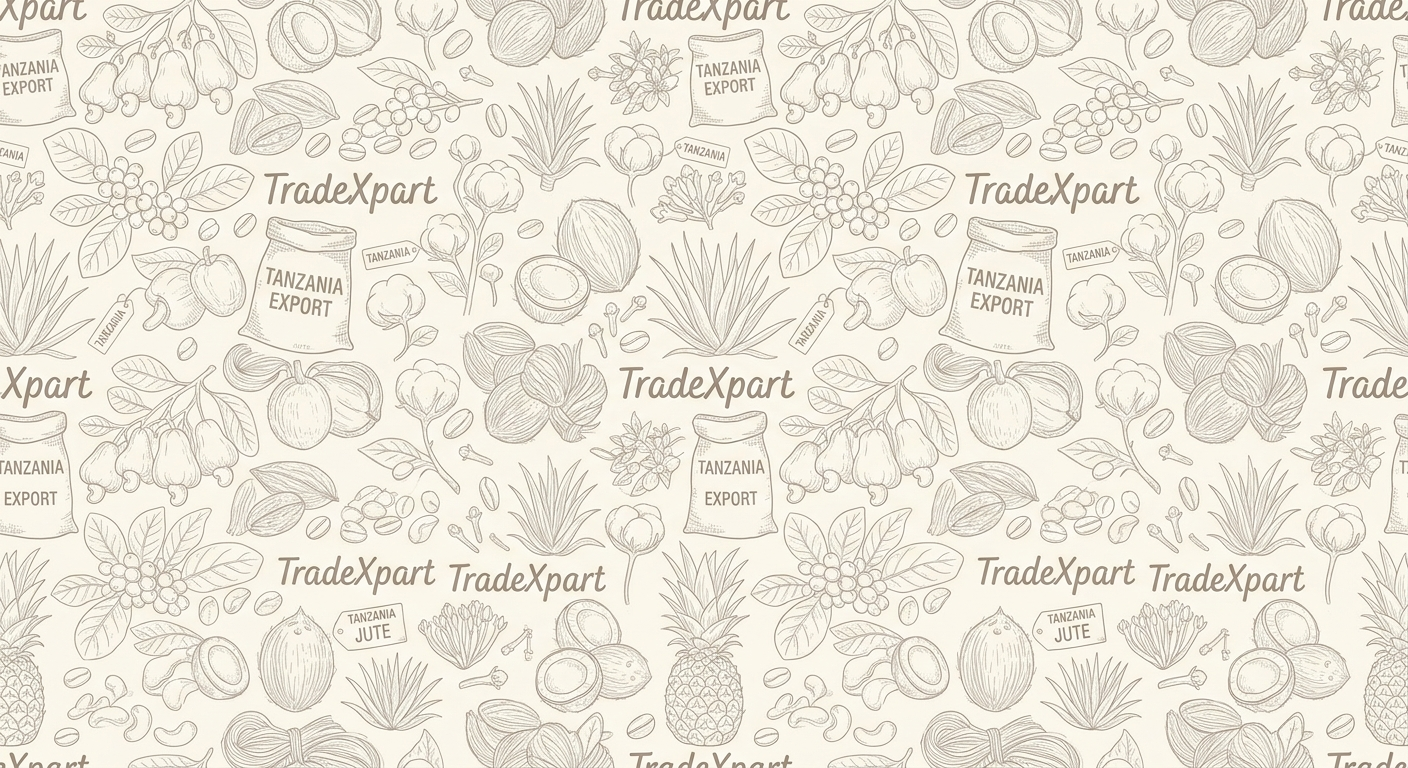
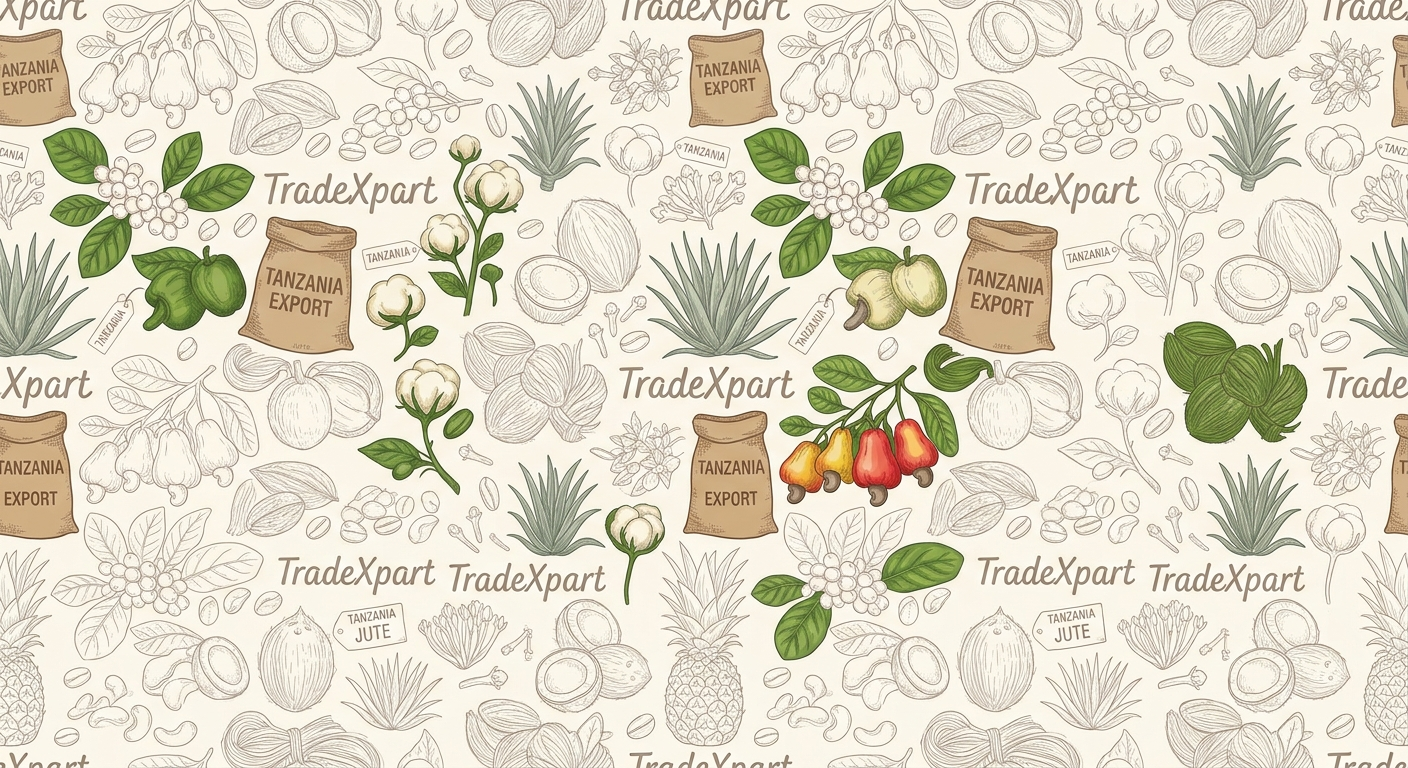
Update background pattern artwork and retune tile size
New tradexpartbg.jpg is a colorful 1408x768 seamless pattern; sized
the tile to its native dimensions so the repeated text/icons stay
legible instead of the smaller tile size tuned for the old placeholder.

diff --git a/src/App.tsx b/src/App.tsx
@@ -1125,7 +1125,7 @@ export default function App() {
         style={{
           backgroundImage: `url(${tradexpartBg})`,
           backgroundRepeat: 'repeat',
-          backgroundSize: '440px auto',
+          backgroundSize: '704px 384px',
           opacity: theme === 'dark' ? 0.22 : 0.4,
           filter: theme === 'dark' ? 'grayscale(1) invert(1)' : 'none',
         }}
